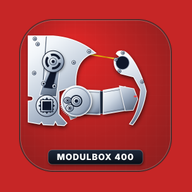
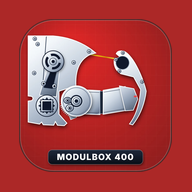
Icono de la app desde el original de 1024 px (más nítido)

diff --git a/sw.js b/sw.js
@@ -1,4 +1,4 @@
-const CACHE_NAME = 'modulbox-v65';
+const CACHE_NAME = 'modulbox-v66';
 const APP_SHELL = [
 './',
 './index.html',
